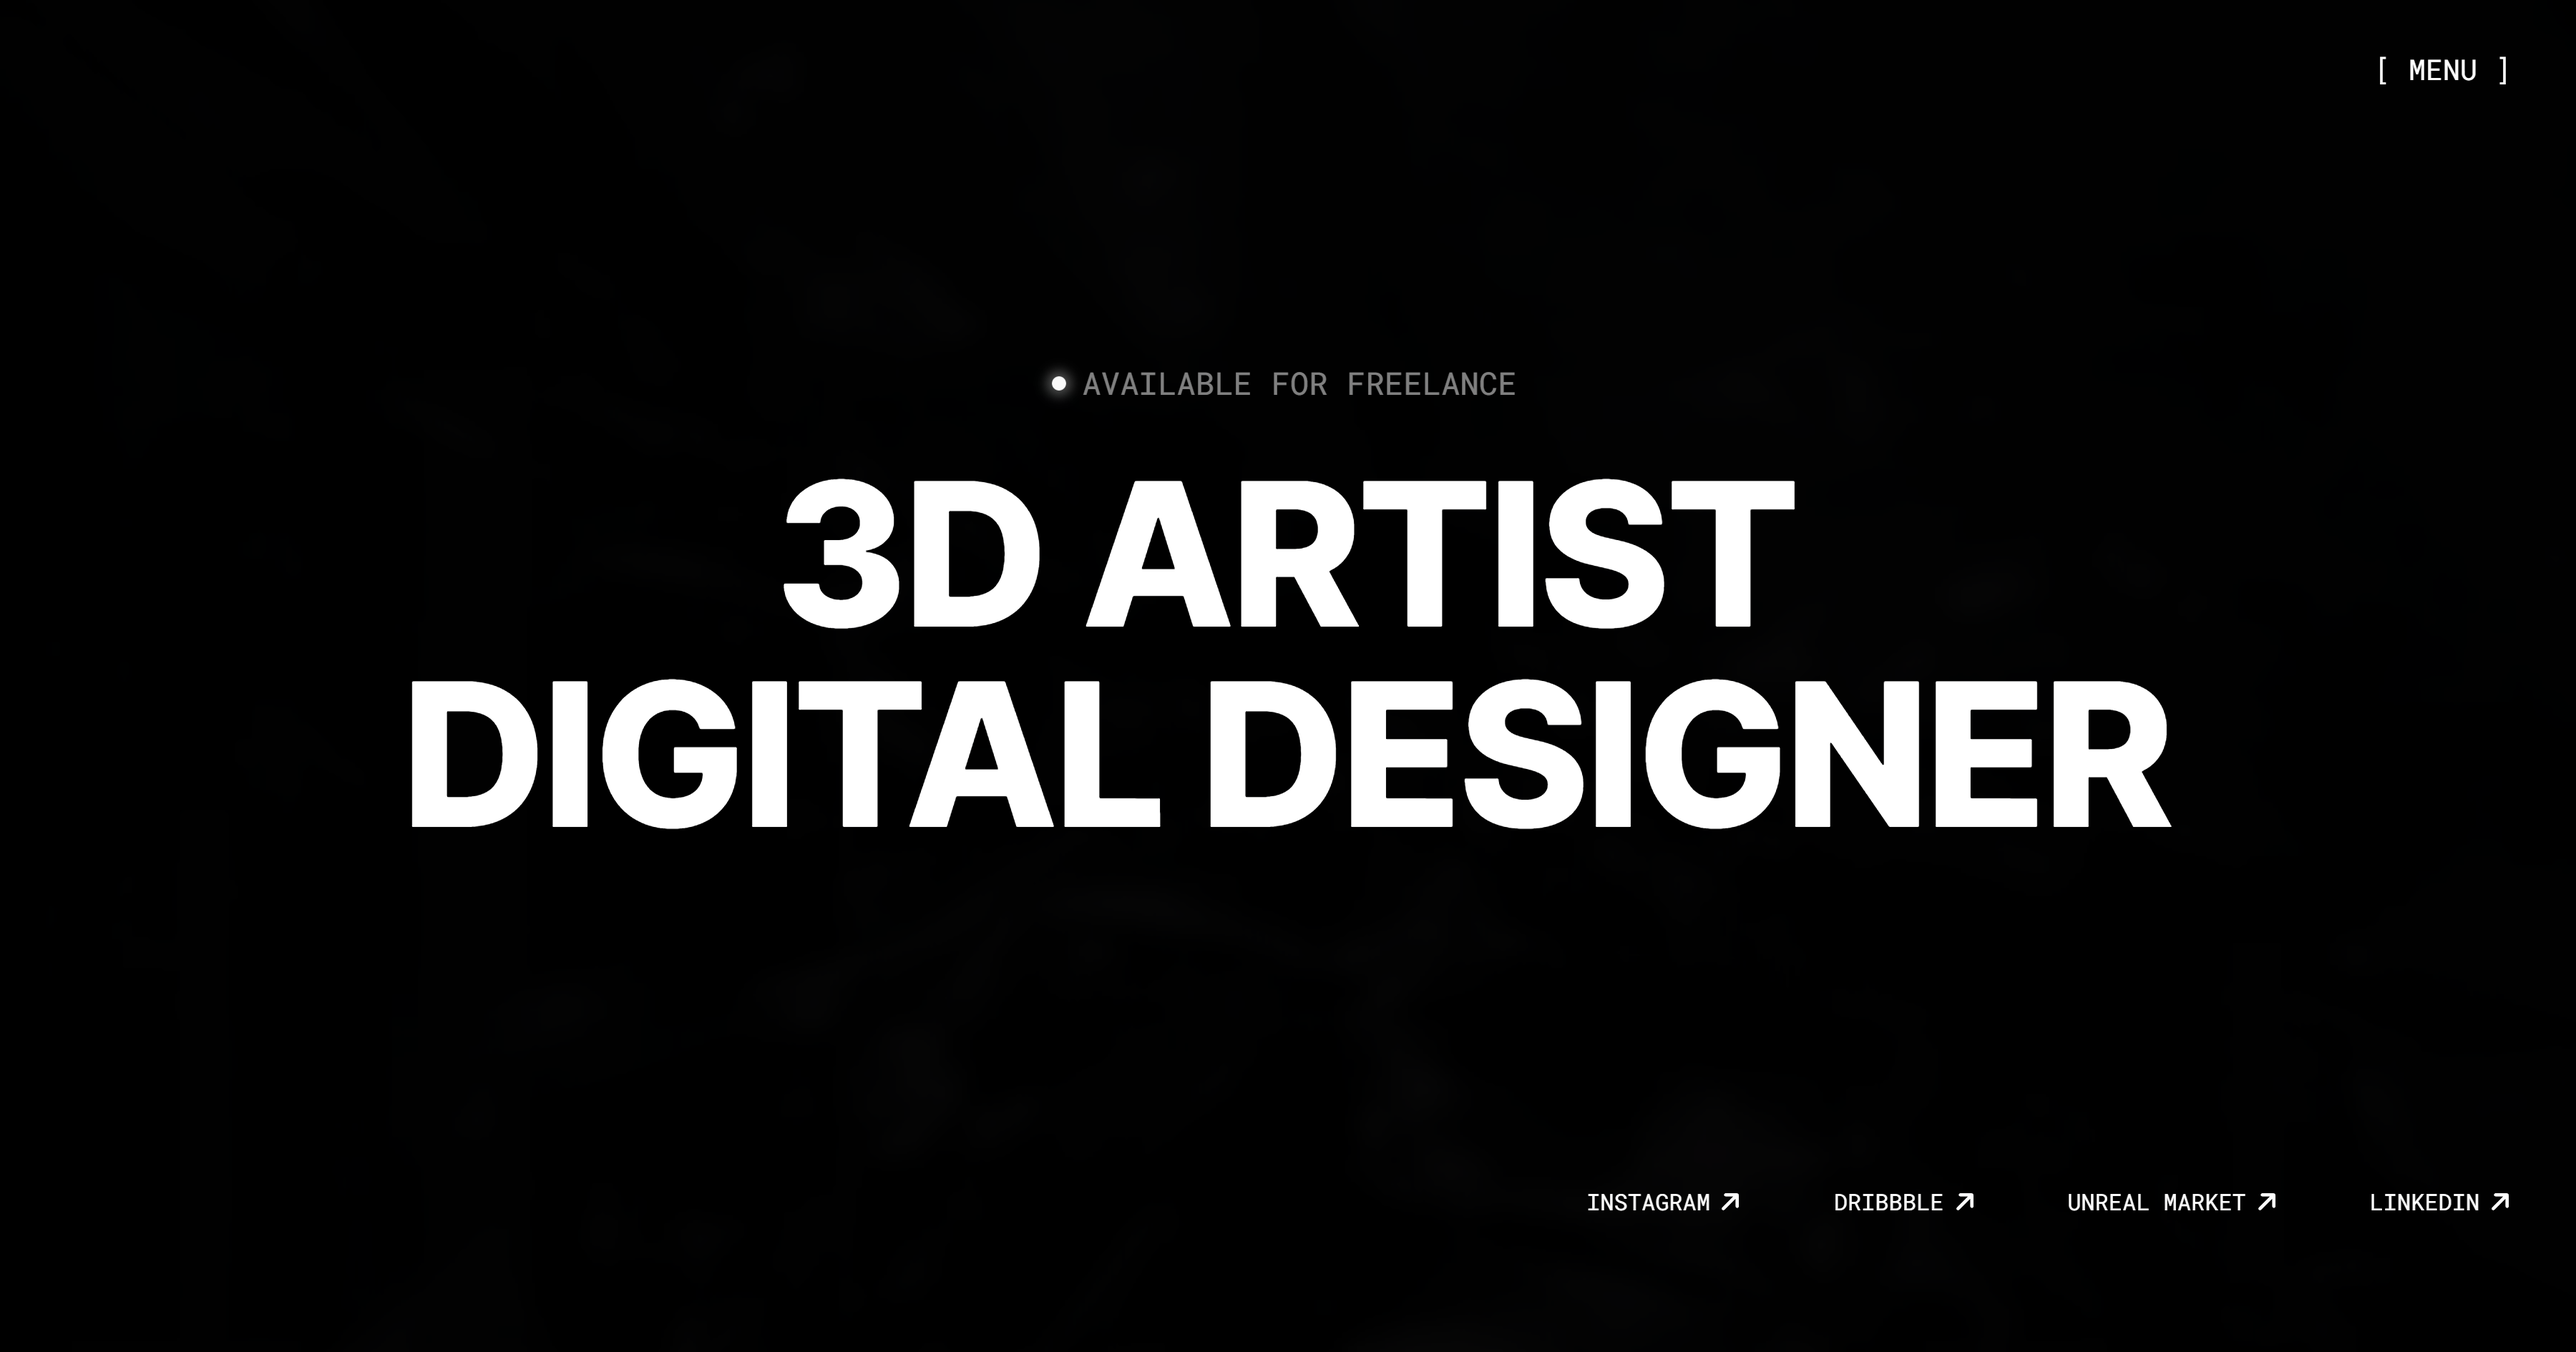
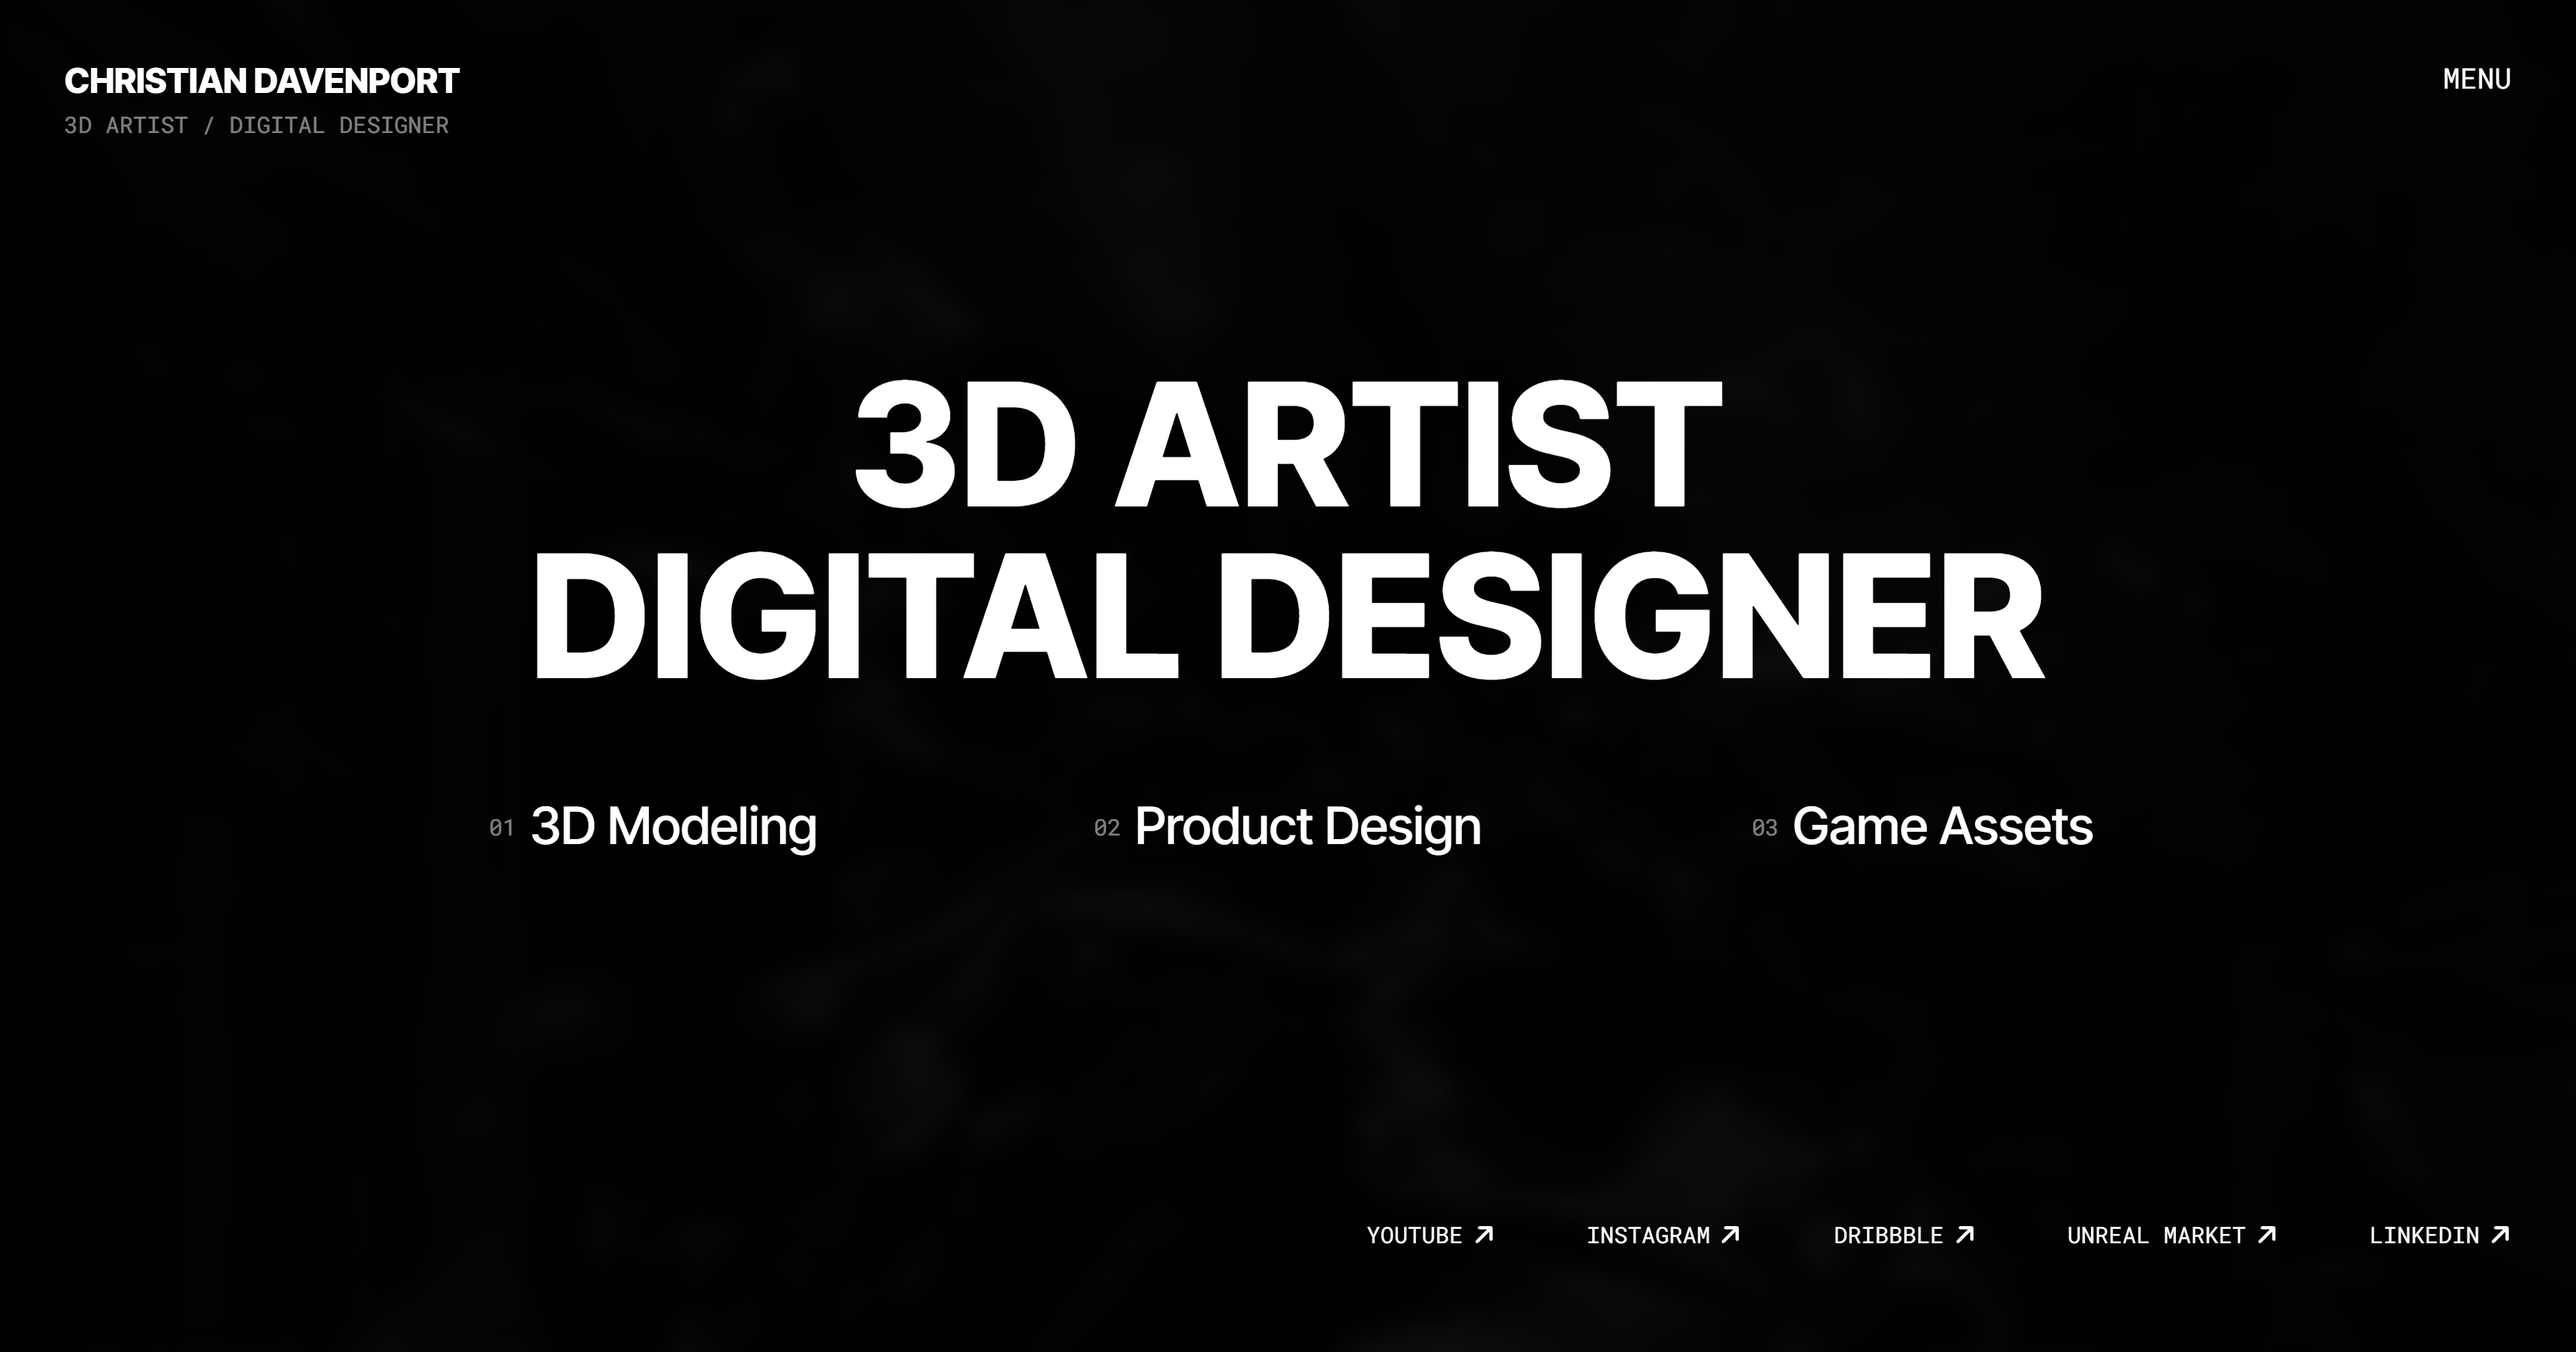
+

diff --git a/app/globals.css b/app/globals.css
@@ -108,6 +108,15 @@
     width: 100%;
   }
 
+  .logo {
+    position: fixed;
+    left: 5%;
+    top: 1.5rem;
+    z-index: 3;
+    display: flex;
+    flex-direction: column;
+  }
+
   nav {
     width: 100%;
     position: fixed;
@@ -152,6 +161,7 @@
 
   .vid {
     width: 100%;
+    height: 100%;
     object-fit: cover;
   }
 
@@ -195,7 +205,7 @@
   }
 
   .card-title {
-    max-width: 300px;
+    max-width: none;
     width: 100%;
     display: flex;
     justify-content: center;
@@ -281,7 +291,7 @@
     background: #ffffff10;
     backdrop-filter: blur(20px);
     -webkit-backdrop-filter: blur(20px);
-    width: 98%;
+    width: 95%;
     height: 95vh;
     border: 1px solid #ffffff80;
     position: relative;
@@ -342,7 +352,7 @@
     display: flex;
     flex-direction: column;
     width: 90%;
-    margin-top: 6rem;
+    margin-top: 10rem;
     z-index: 3;
   }
 
@@ -377,7 +387,7 @@
     display: flex;
     justify-content: center;
     align-items: center;
-    gap: 1rem 4rem;
+    gap: 1rem 2rem;
     flex-wrap: wrap;
     width: 95%;
 
@@ -403,6 +413,12 @@
     backdrop-filter: blur(8px);
     -webkit-backdrop-filter: blur(8px);
     position: fixed;
+  }
+}
+
+@media (min-width: 849px) {
+  .card-title {
+    max-width: 25%;
   }
 }
 
@@ -453,6 +469,11 @@
     padding: 1.4rem;
   }
 
+  .logo {
+    left: 2.5%;
+    top: 2.5rem;
+  }
+
   nav {
     top: 2.5rem;
   }
@@ -460,6 +481,10 @@
   .overlay {
     padding-left: 6rem;
     padding-bottom: 4rem;
+  }
+
+  .card {
+    width: 98%;
   }
 
   .cardShowcase {

diff --git a/app/project/page.tsx b/app/project/page.tsx
@@ -4,16 +4,7 @@ import Link from "next/link";
 export default function Project() {
   return (
     <main>
-      <div
-        style={{
-          position: "fixed",
-          left: "2.5%",
-          top: "2.5rem",
-          zIndex: 3,
-          display: "flex",
-          flexDirection: "column",
-        }}
-      >
+      <div className="logo">
         <span>CHRISTIAN DAVENPORT</span>
         <p>3D ARTIST / DIGITAL DESIGNER</p>
         <br />

diff --git a/app/page.tsx b/app/page.tsx
@@ -41,16 +41,7 @@ export default function Home() {
 
   return (
     <main>
-      <div
-        style={{
-          position: "fixed",
-          left: "2.5%",
-          top: "2.5rem",
-          zIndex: 3,
-          display: "flex",
-          flexDirection: "column",
-        }}
-      >
+      <div className="logo">
         <span>CHRISTIAN DAVENPORT</span>
         <p>3D ARTIST / DIGITAL DESIGNER</p>
       </div>
